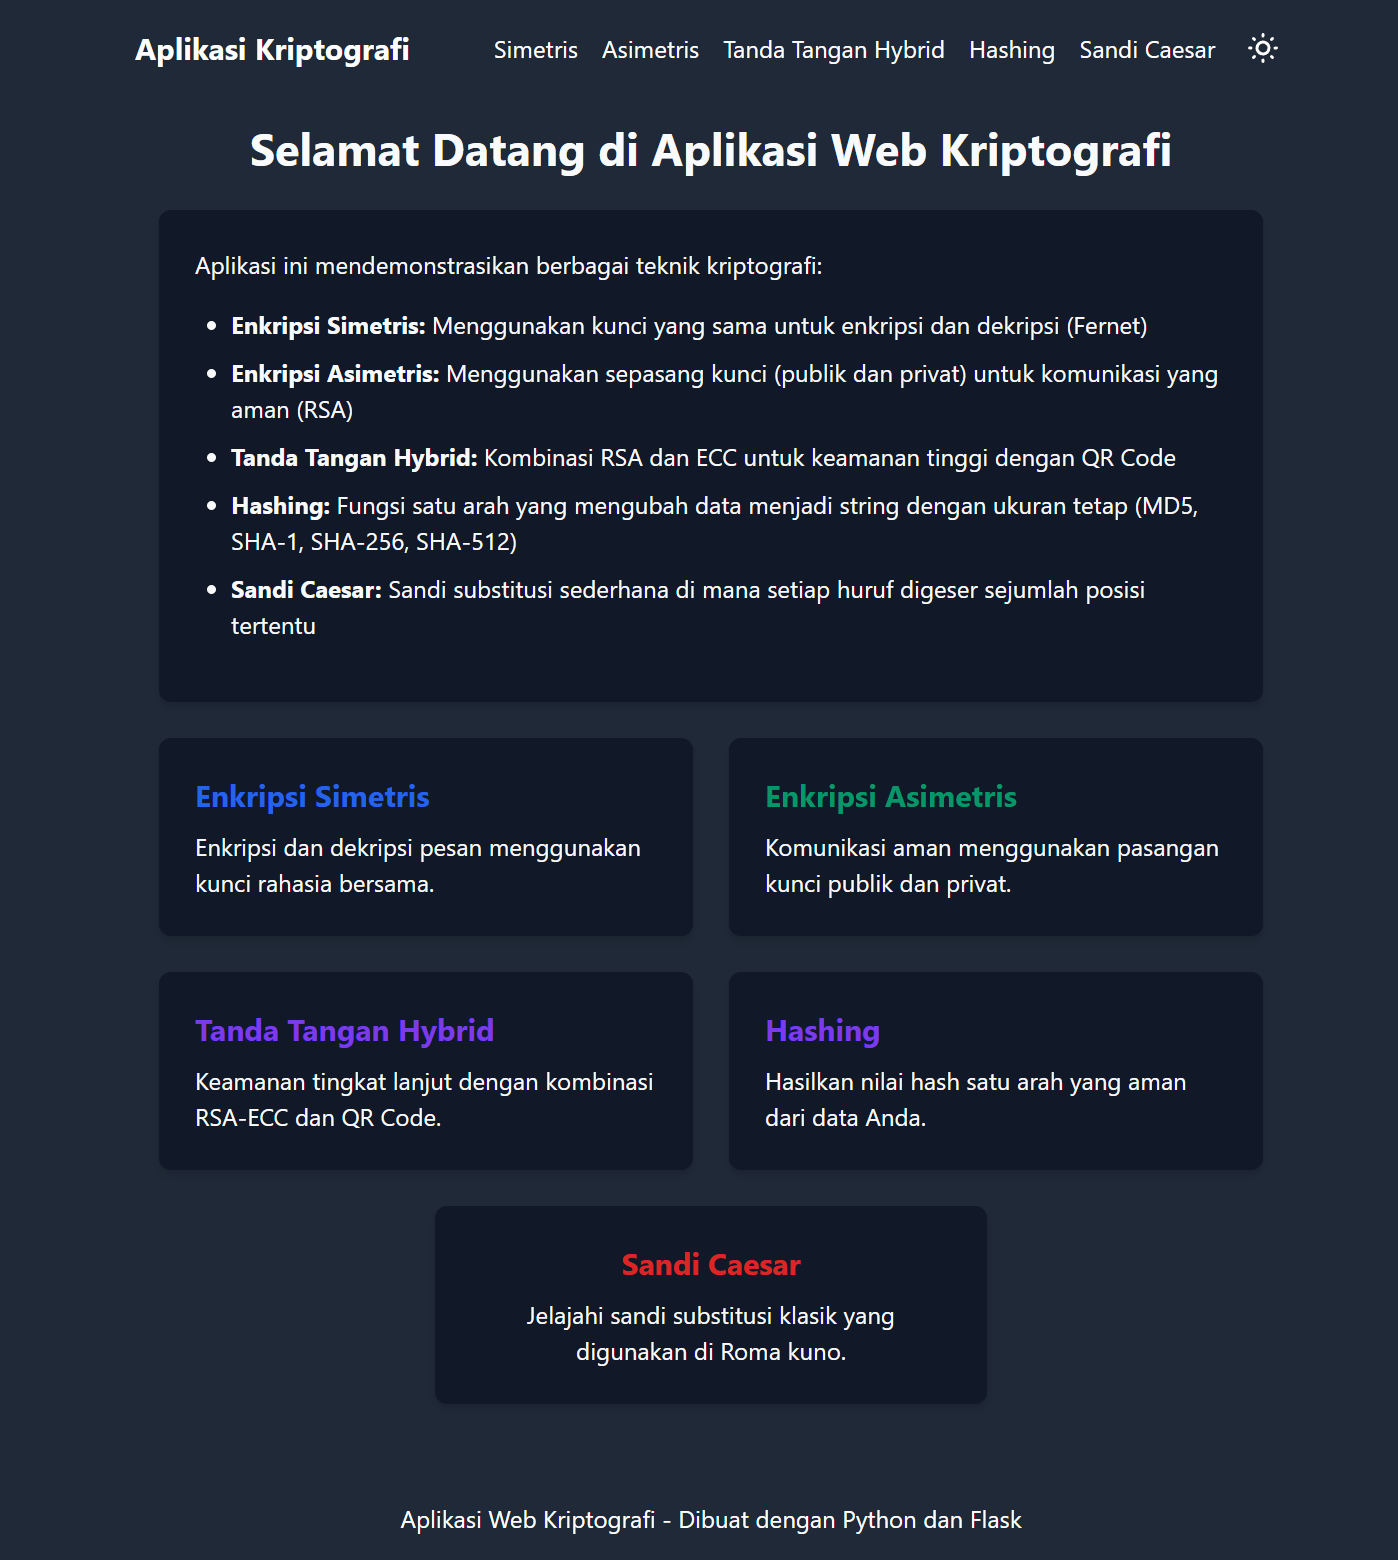
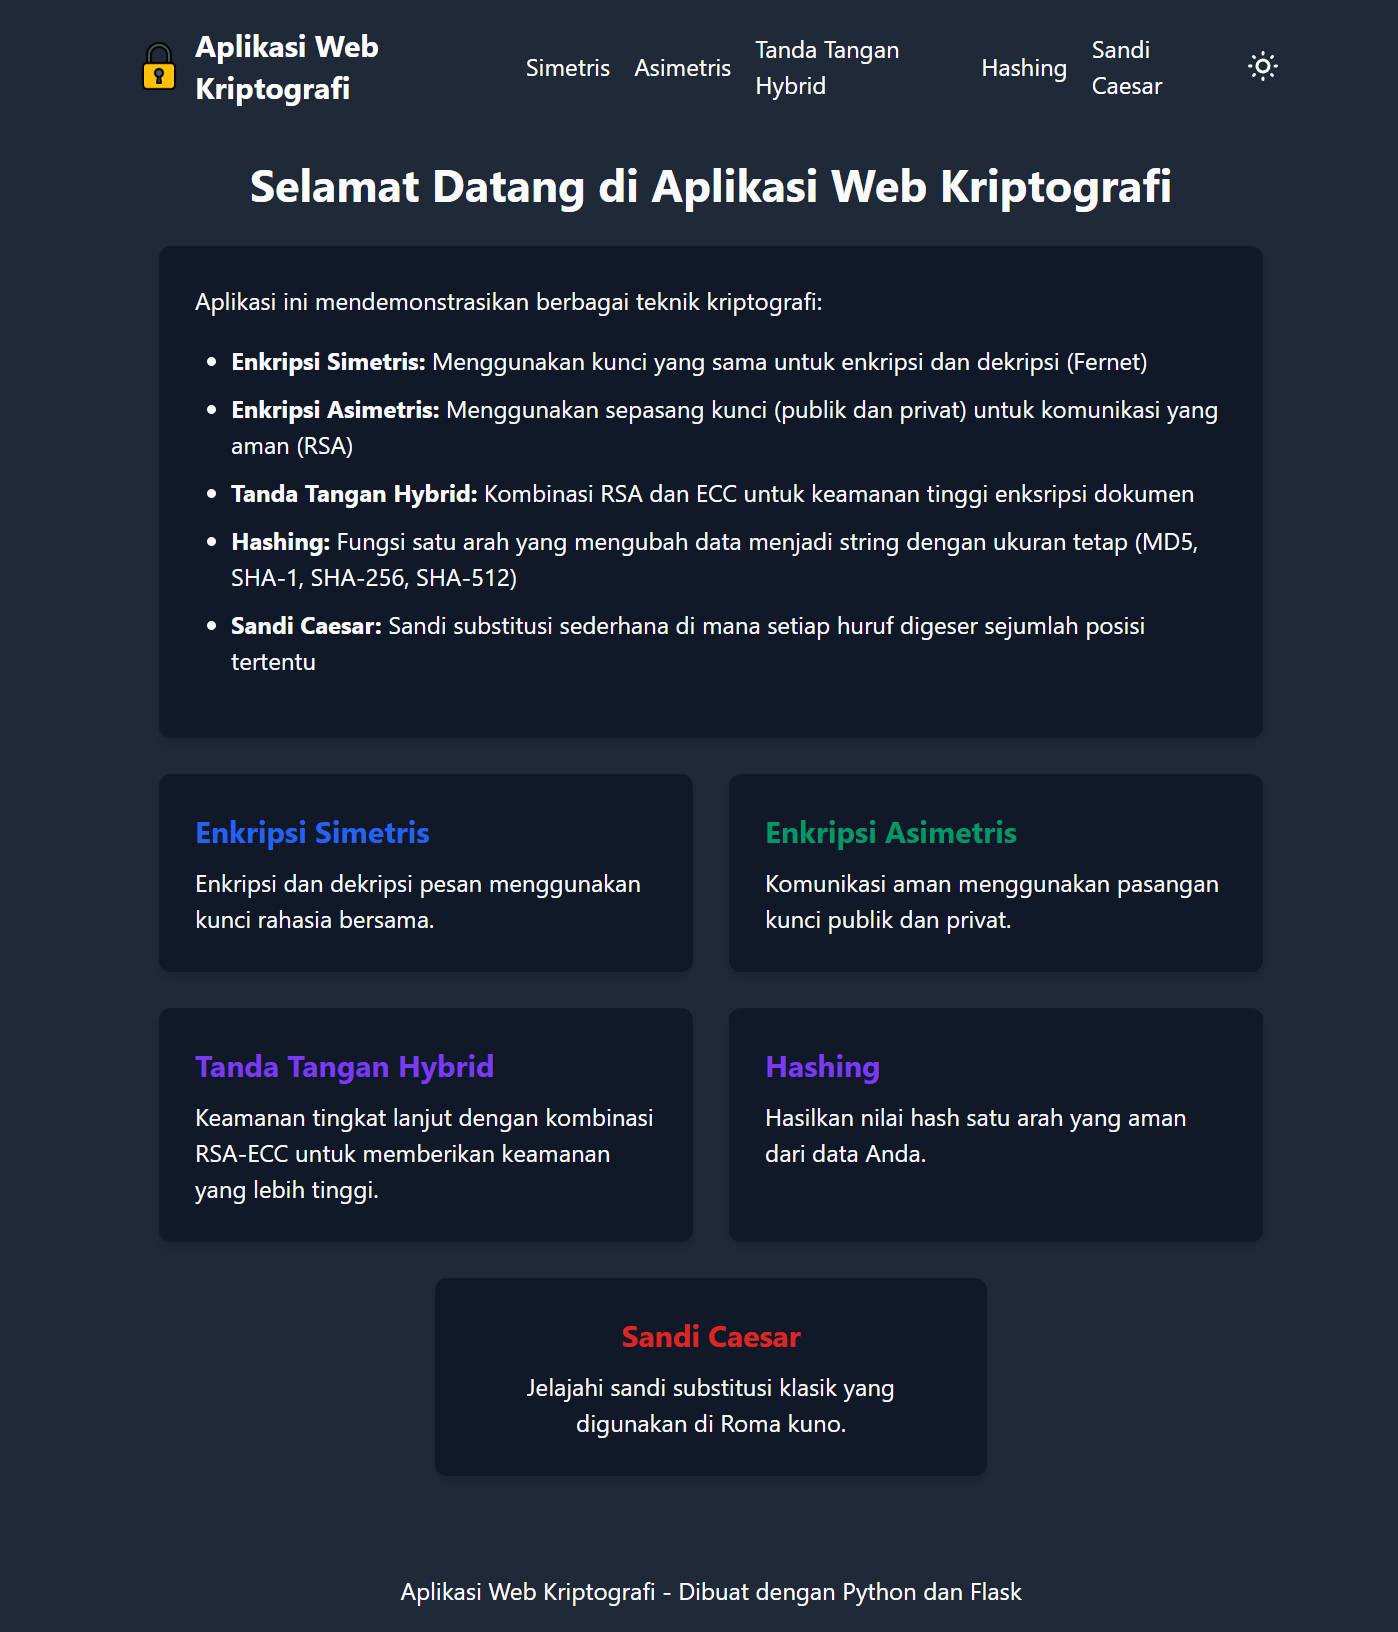
updates

diff --git a/templates/index.html b/templates/index.html
@@ -11,7 +11,7 @@
         <ul class="list-disc pl-6 mb-4">
             <li class="mb-2"><strong>Enkripsi Simetris:</strong> Menggunakan kunci yang sama untuk enkripsi dan dekripsi (Fernet)</li>
             <li class="mb-2"><strong>Enkripsi Asimetris:</strong> Menggunakan sepasang kunci (publik dan privat) untuk komunikasi yang aman (RSA)</li>
-            <li class="mb-2"><strong>Tanda Tangan Hybrid:</strong> Kombinasi RSA dan ECC untuk keamanan tinggi dengan QR Code</li>
+            <li class="mb-2"><strong>Tanda Tangan Hybrid:</strong> Kombinasi RSA dan ECC untuk keamanan tinggi enksripsi dokumen</li>
             <li class="mb-2"><strong>Hashing:</strong> Fungsi satu arah yang mengubah data menjadi string dengan ukuran tetap (MD5, SHA-1, SHA-256, SHA-512)</li>
             <li class="mb-2"><strong>Sandi Caesar:</strong> Sandi substitusi sederhana di mana setiap huruf digeser sejumlah posisi tertentu</li>
         </ul>
@@ -30,7 +30,7 @@
         
         <a href="/hybrid-signature" class="block bg-white p-6 rounded-lg shadow-md hover:shadow-lg transition-shadow card">
             <h2 class="text-xl font-bold mb-2 text-purple-600">Tanda Tangan Hybrid</h2>
-            <p>Keamanan tingkat lanjut dengan kombinasi RSA-ECC dan QR Code.</p>
+            <p>Keamanan tingkat lanjut dengan kombinasi RSA-ECC untuk memberikan keamanan yang lebih tinggi.</p>
         </a>
         
         <a href="/hashing" class="block bg-white p-6 rounded-lg shadow-md hover:shadow-lg transition-shadow card">

diff --git a/templates/base.html b/templates/base.html
@@ -41,12 +41,17 @@
         .btn-primary:hover {
             background-color: var(--accent-secondary);
         }
-        input, textarea, select {
+        input, textarea, select, pre, #text-preview {
             color: #000000 !important;
             background-color: #ffffff !important;
         }
         input::placeholder, textarea::placeholder {
             color: #6b7280 !important;
+        }
+        .dark input, .dark textarea, .dark select, .dark pre, .dark #text-preview {
+            color: #000000 !important;
+            background-color: #ffffff !important;
+            border-color: #374151;
         }
     </style>
 </head>

diff --git a/templates/hybrid-signature.html b/templates/hybrid-signature.html
@@ -32,6 +32,7 @@
             <div>
                 <label for="rsaPrivateKey" class="block mb-2 font-medium">Kunci Privat RSA:</label>
                 <textarea id="rsaPrivateKey" class="w-full p-2 border rounded h-40 font-mono text-xs" placeholder="Kunci privat RSA untuk penandatanganan"></textarea>
+                <p class="text-sm text-gray-600 mt-1">Penting: Harap salin Kunci RSA untuk Deskripsi Dokumen</p>
             </div>
             
             <div>

diff --git a/hybrid_signature.py b/hybrid_signature.py
@@ -9,8 +9,6 @@ import zlib
 from datetime import datetime
 from PIL import Image, ImageDraw, ImageEnhance
 from io import BytesIO
-import cv2
-from pyzbar.pyzbar import decode
 import numpy as np
 
 # Untuk RSA
@@ -336,92 +334,6 @@ class HybridSignature:
             "encrypted_data": encrypted_data
         }
     
-    def verify_document(self, encrypted_file_path, qr_code_path, keys_metadata_path=None):
-        """
-        Verify a document using hybrid RSA-ECC approach:
-        1. Read QR code to get metadata
-        2. Get public keys from keys metadata file or QR code
-        3. Verify ECC signature on encrypted document
-        4. Verify RSA signature on document hash
-        5. Decrypt document if verification succeeds
-        """
-        # Read QR code
-        qr_data = self.read_qr_code(qr_code_path)
-        if not qr_data:
-            return {"valid": False, "error": "Could not read QR code"}
-        
-        try:
-            # Try to decompress the data
-            try:
-                decompressed_data = self.decompress_data(base64.b64decode(qr_data))
-                metadata = json.loads(decompressed_data)
-            except:
-                # If decompression fails, try to parse as JSON directly
-                metadata = json.loads(qr_data)
-        except json.JSONDecodeError:
-            return {"valid": False, "error": "Invalid QR code data format"}
-        
-        # Get public keys
-        if keys_metadata_path and os.path.exists(keys_metadata_path):
-            # Read keys from metadata file
-            with open(keys_metadata_path, 'r') as f:
-                keys_metadata = json.load(f)
-            rsa_public_key = keys_metadata.get("rsa_public_key")
-            ecc_public_key = keys_metadata.get("ecc_public_key")
-        else:
-            # If no keys metadata file, check if keys are in the QR code
-            rsa_public_key = metadata.get("rsa_public_key")
-            ecc_public_key = metadata.get("ecc_public_key")
-            
-            if not rsa_public_key or not ecc_public_key:
-                return {"valid": False, "error": "Public keys not found in QR code or keys metadata file"}
-
-        # Read encrypted file
-        with open(encrypted_file_path, "rb") as f:
-            encrypted_data = f.read()
-        
-        # Verify ECC signature
-        ecc_signature = base64.b64decode(metadata["ecc_signature"])
-        ecc_valid = self.verify_with_ecc(encrypted_data, ecc_signature, ecc_public_key)
-        
-        if not ecc_valid:
-            return {
-                "valid": False, 
-                "error": "ECC signature verification failed. Document may have been tampered with."
-            }
-        
-        # Verify RSA signature
-        rsa_signature = base64.b64decode(metadata["rsa_signature"])
-        rsa_valid = self.verify_with_rsa(metadata["doc_hash"], rsa_signature, rsa_public_key)
-        
-        if not rsa_valid:
-            return {
-                "valid": False, 
-                "error": "RSA signature verification failed. Document hash doesn't match."
-            }
-        
-        # If verification succeeds
-        return {
-            "valid": True,
-            "metadata": metadata,
-            "message": "Document signature is valid. This is an authentic document.",
-            "encrypted_data": encrypted_data
-        }
-    
-    def read_qr_code(self, image_path):
-        """Read QR code from image file"""
-        if isinstance(image_path, str):
-            # Read from file path
-            image = cv2.imread(image_path)
-        else:
-            # Convert PIL Image to OpenCV format
-            image = cv2.cvtColor(np.array(image_path), cv2.COLOR_RGB2BGR)
-            
-        decoded_objects = decode(image)
-        if decoded_objects:
-            return decoded_objects[0].data.decode('utf-8')
-        return None
-
     # Tambahkan metode baru untuk dekripsi dokumen
     def decrypt_document(self, encrypted_file_path, keys_metadata, rsa_private_key):
         """

diff --git a/app.py b/app.py
@@ -31,7 +31,12 @@ print(f"Available templates: {os.listdir(app.template_folder)}")
 SIGNED_FOLDER = os.path.join(os.path.dirname(os.path.abspath(__file__)), 'signed_files')
 os.makedirs(SIGNED_FOLDER, exist_ok=True)
 
+# Tambahkan direktori untuk file yang diunggah
+UPLOAD_FOLDER = os.path.join(os.path.dirname(os.path.abspath(__file__)), 'uploaded_files')
+os.makedirs(UPLOAD_FOLDER, exist_ok=True)
+
 app.config['SIGNED_FOLDER'] = SIGNED_FOLDER
+app.config['UPLOAD_FOLDER'] = UPLOAD_FOLDER
 app.config['MAX_CONTENT_LENGTH'] = 16 * 1024 * 1024  # 16 MB max upload size
 ALLOWED_EXTENSIONS = {'png', 'jpg', 'jpeg', 'gif', 'pdf', 'doc', 'docx', 'txt'}
 
